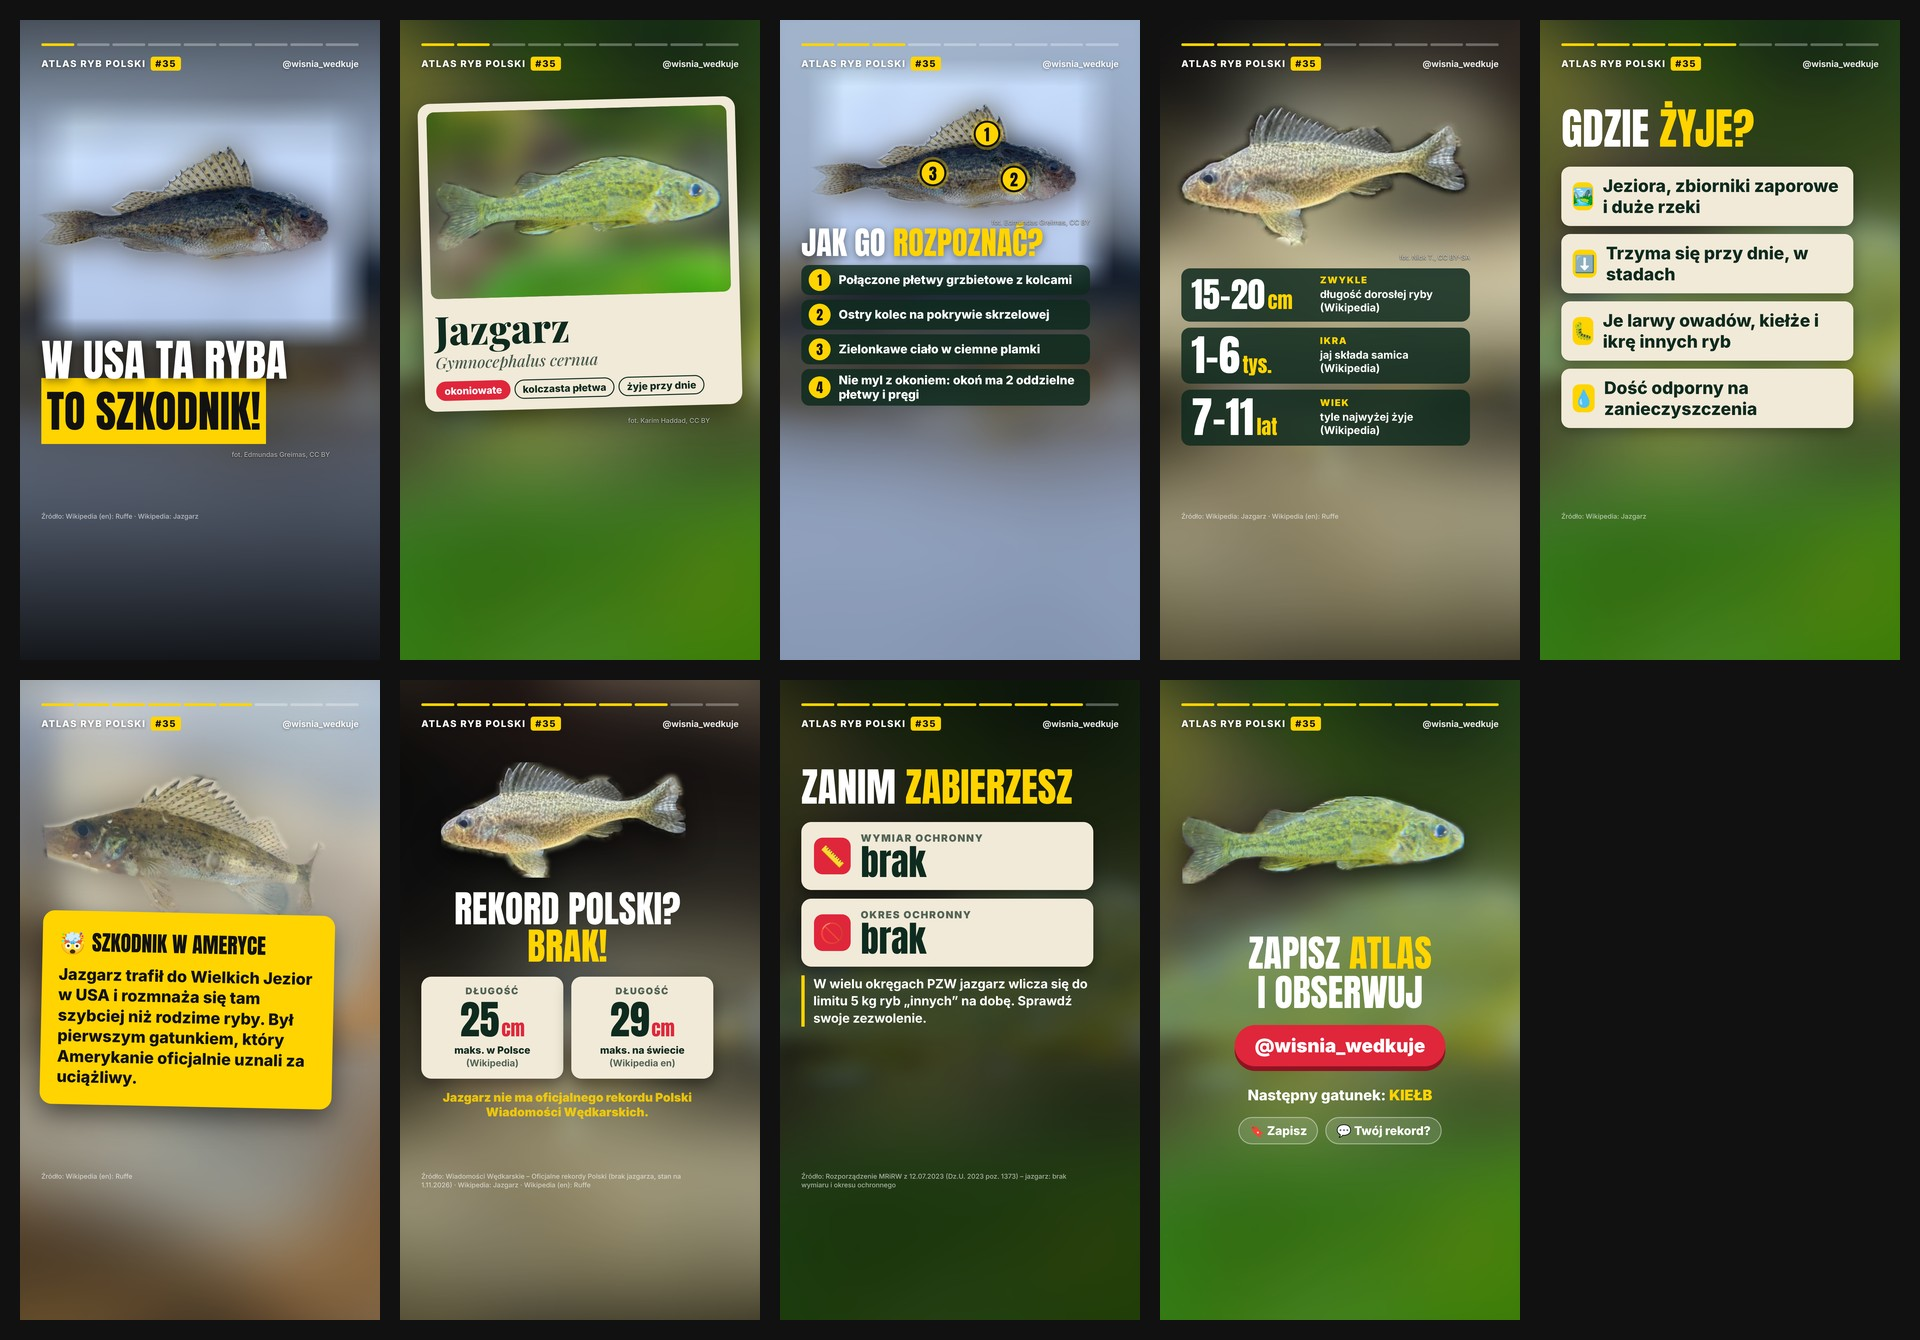
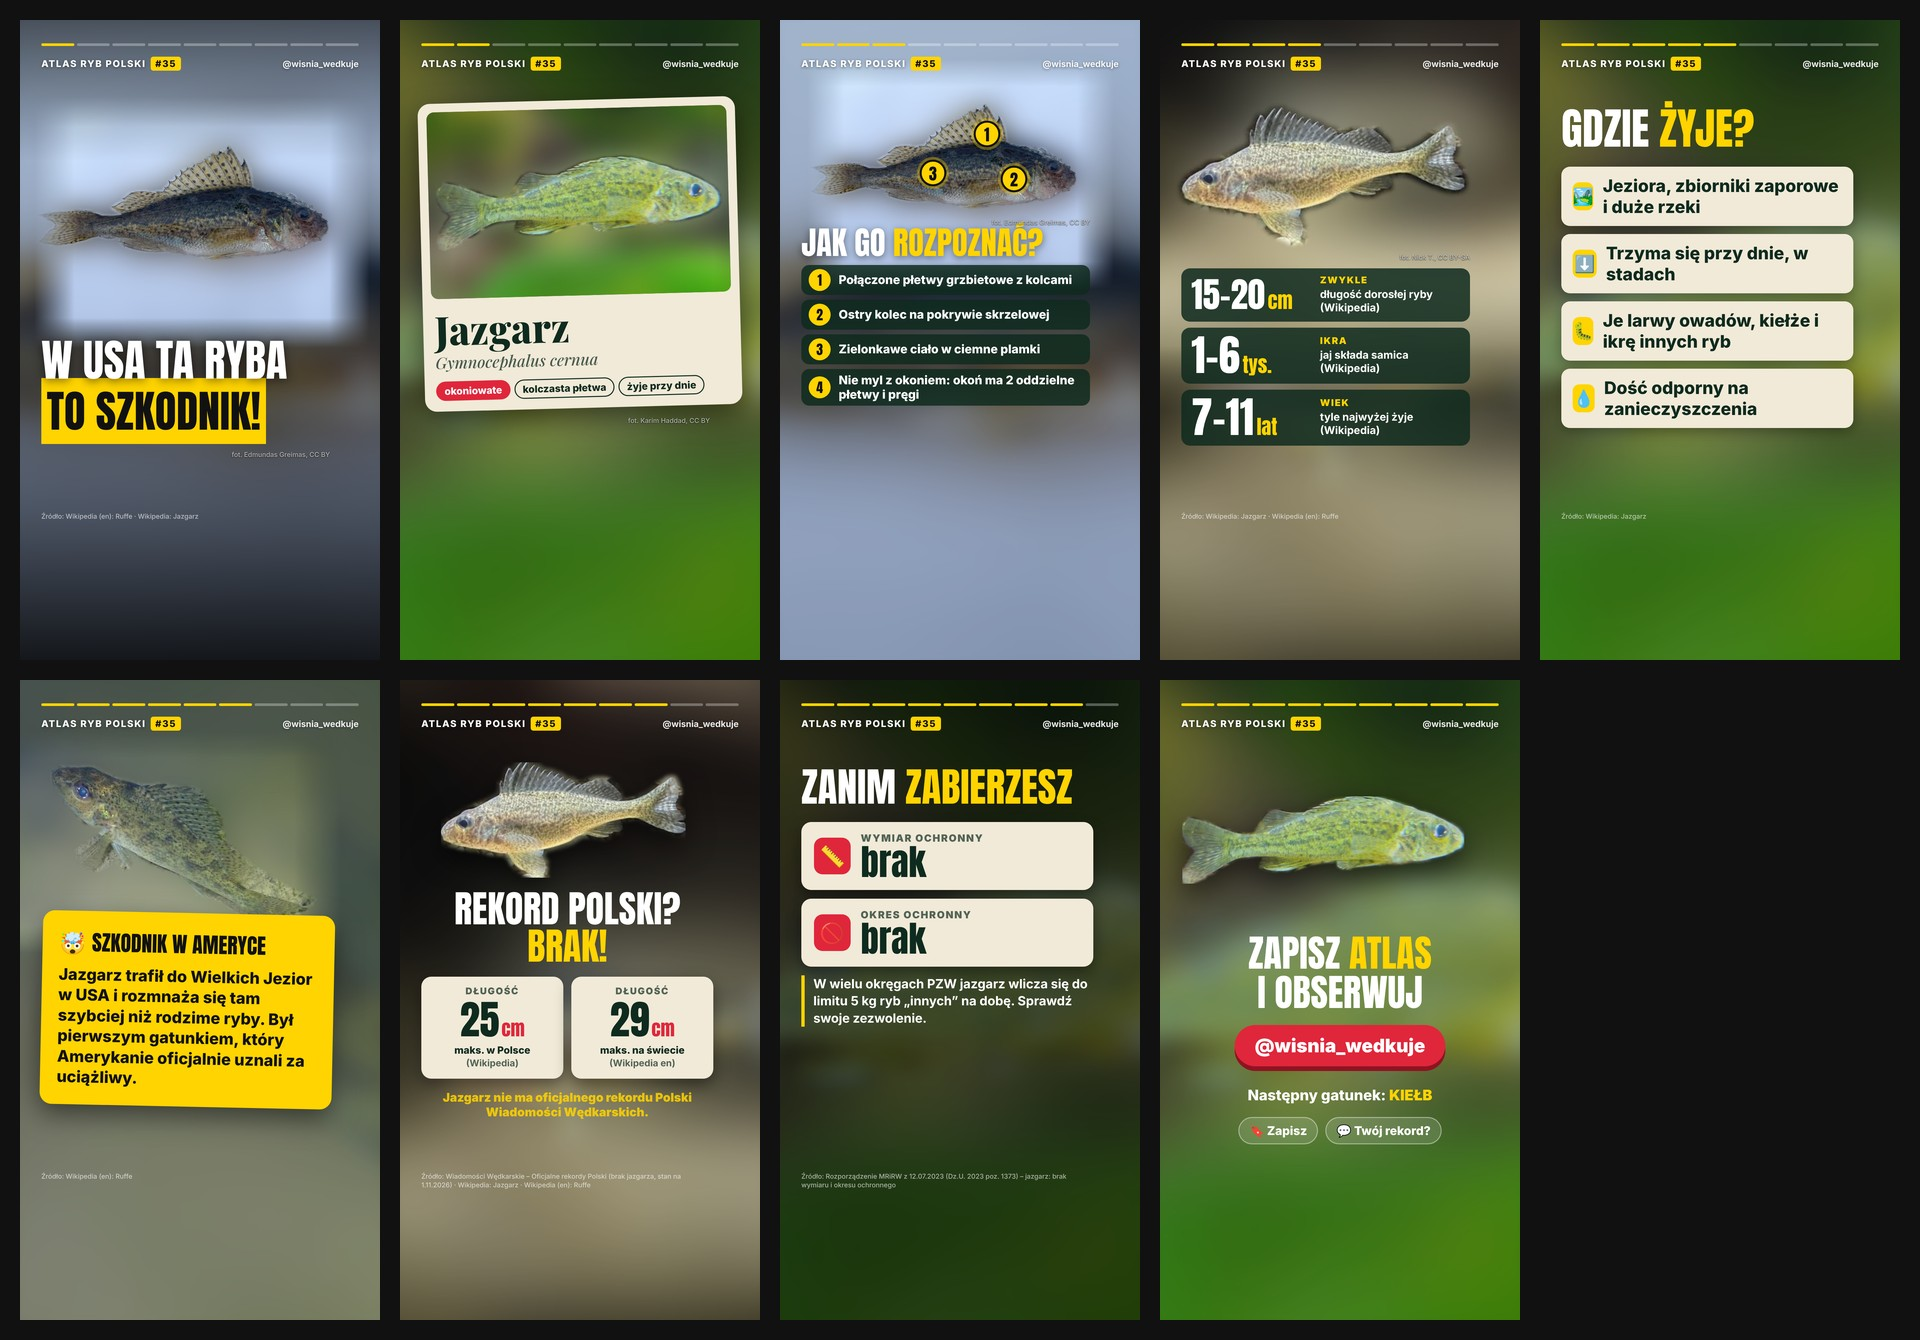
Atlas 35 Jazgarz: żywa ryba pod wodą na ciekawostce zamiast ryby w pojemniku
Claude-Session: https://claude.ai/code/session_01YFDAx1LD8sTfHqEDUSbp2L

Changed region(s): [[0.0, 0.4896, 0.2188, 1.0]]

diff --git a/atlas/scenariusze/jazgarz.md b/atlas/scenariusze/jazgarz.md
@@ -21,6 +21,6 @@ pierwszy gatunek sklasyfikowany jako „nuisance” przez Non-indigenous Aquatic
 - EN: samica 130–200 tys. jaj (populacje w USA) vs PL 1–6 tys. – sprzeczne; w rolce dane polskie.
 
 ## Zdjęcia (żywe ryby, iNaturalist)
-jaz_mech (Karim Haddad, CC BY), jaz_akwarium (Nick T., CC BY-SA), jaz_pojemnik (Nicolás Tamargo, CC0 – żywy w przezroczystym pojemniku),
+jaz_mech (Karim Haddad, CC BY), jaz_akwarium (Nick T., CC BY-SA), jaz_dno (Nicola Crockford, CC BY – żywy pod wodą; zamiast ryby w pojemniku – uwaga użytkownika),
 jaz_snieg (Edmundas Greimas, CC BY – świeżo złowiony na śniegu, najlepiej widać płetwę grzbietową).
 Odrzucone: ryby w dłoniach, martwe na liściach/piasku, zdjęcie pod wodą z uciętym ogonem.
